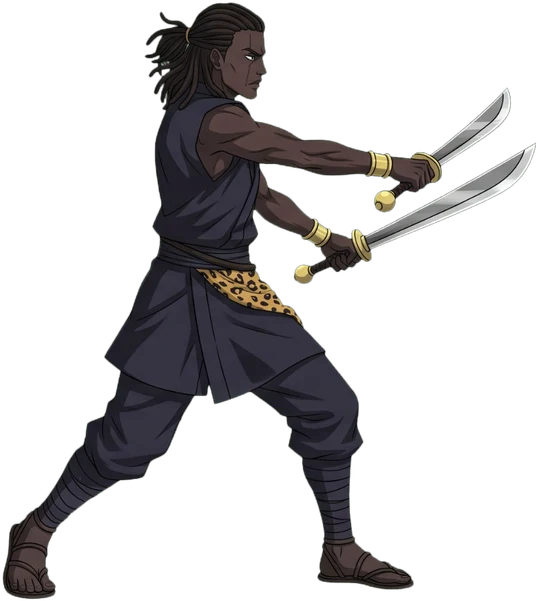
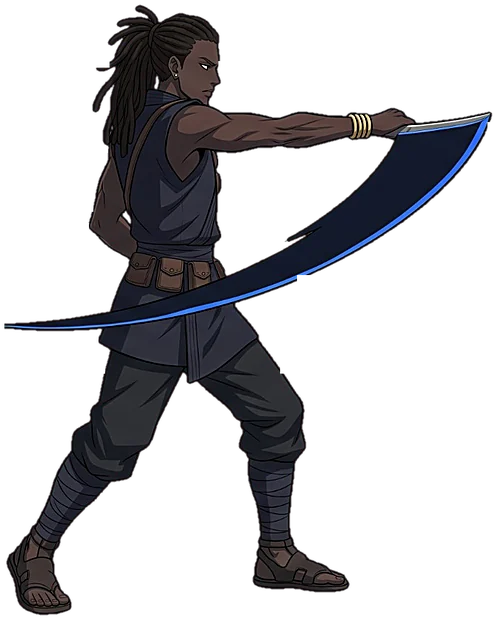
Blay: navy-outfit keyframe art (idle/hurt/defeated/dash, draw cut, twin cut, parry/counter/rally, ultimate), detached blue-black slash projectiles, screen-wide ult wave, zip-sheet portrait
Claude-Session: https://claude.ai/code/session_01KCvu1msLSb5oPSxPwoexAA

Changed region(s): [[0.0, 0.0, 0.996, 1.0]]

diff --git a/squads/game.js b/squads/game.js
@@ -1,9 +1,9 @@
 // Gyeaman Squads: Akan squad battler, chapter 1.
 // Battles are turn based on a speed turn order (Dislyte style): every hero picks Basic, Skill (cooldown) or Ultimate (energy)
 // and a target; enemies show their next move. Big moves get impact frames, small ones stay quiet.
-import { KF } from './kf.js?v=20261021d';
-import { HEROES, MONS, STAGES, REGIONS, DIFF, RARITY, STARTERS, SKILL_MAX, skillCost, xpNeed, STAR_SHARDS, LOCKED_CHAPTERS, PULL_COST, PULL10_COST, PITY, PULL_RATES, CLASSES, GROWTH, SPELLS } from './data.js?v=20261021d';
-import { drawAdinkra, adinkraPath, adinkraSvg, ADINKRA } from './adinkra.js?v=20261021d';
+import { KF } from './kf.js?v=20261021e';
+import { HEROES, MONS, STAGES, REGIONS, DIFF, RARITY, STARTERS, SKILL_MAX, skillCost, xpNeed, STAR_SHARDS, LOCKED_CHAPTERS, PULL_COST, PULL10_COST, PITY, PULL_RATES, CLASSES, GROWTH, SPELLS } from './data.js?v=20261021e';
+import { drawAdinkra, adinkraPath, adinkraSvg, ADINKRA } from './adinkra.js?v=20261021e';
 
 const ROOT = /\/squads\/?$|\/squads\/index\.html$/.test(location.pathname) ? '../assets/' : 'assets/';
 const A = ROOT + 'sq/';
@@ -62,7 +62,7 @@ const SFX = {
 
 // ---------------- images ----------------
 const IM = {};
-const AV = '?v=20261021d'; // bump when art files are replaced under the same name (defeats stale browser/CDN caches)
+const AV = '?v=20261021e'; // bump when art files are replaced under the same name (defeats stale browser/CDN caches)
 function img(src) {
   if (!IM[src]) { const e = { el: new Image(), ok: false, sc: {}, sil: {} }; e.el.decoding = 'async'; e.el.onload = () => { e.ok = true; }; e.el.src = src; IM[src] = e; }
   return IM[src];
@@ -76,6 +76,7 @@ for (const id in ANIM) for (const c of Object.values(ANIM[id])) c.sheets.forEach
 // ---------- keyframe choreography (Firefly pose sheets + code movement, smears, speed lines, afterimages) ----------
 const kfImg = (id, p) => img(A + 'kf/' + KF[id].p[p][0] + AV);
 for (const id in KF) for (const p in KF[id].p) kfImg(id, p);
+for (let i = 0; i < 4; i++) img(A + 'kf/blay_fx_' + i + '.webp' + AV);
 // draw keyframe p for hero id with its floor point at (0,0), body scaled so the idle pose is bodyH tall
 function drawKF(g, id, p, bodyH, alpha = 1) {
   const D = KF[id].p[p]; if (!D) return false; const im = kfImg(id, p); if (!im.ok) return false;
@@ -95,6 +96,15 @@ const SEQ = {
       { p: 'ultF_2', ms: 230, x: 1.04, y: .58, lines: 1, ghost: 1, ev: 'k3' }, { p: 'ultF_3', ms: 420, x: 1.08, y: 0, lines: 1, ev: 's4' },
       { p: 'recover_1', ms: 130, x: .6, y: .36, ghost: 1 }, { p: 'recover_2', ms: 130, x: .25, y: .42, ghost: 1 }, { p: 'recover_3', ms: 180, x: 0, y: 0, ev: 'land' }],
   },
+  blay: {
+    recover: [{ p: 'idle_3', ms: 150, x: .45, y: 0, ghost: 1 }, { p: 'idle_0', ms: 140, x: 0, y: 0 }],
+    basic: [{ p: 'basic_1', ms: 200, x: .15 }, { p: 'basic_2', ms: 260, x: .2, lines: 1, ev: 'cut' }, { p: 'basic_3', ms: 220, x: .2 }],
+    blay1: [{ p: 'idle_3', ms: 150, x: .45, ghost: 1 }, { p: 'twin_1', ms: 240, x: .5, ev: 'cut1' }, { p: 'twin_2', ms: 280, x: .5, lines: 1, ev: 'cut2' }, { p: 'twin_3', ms: 200, x: .45 }],
+    blay2: [{ p: 'parry_1', ms: 520, x: 0, ev: 'guard' }],
+    blayRush: [{ p: 'idle_3', ms: 160, x: .8, lines: 1, ghost: 1 }, { p: 'basic_1', ms: 140, x: .9 }, { p: 'basic_2', ms: 300, x: 1, lines: 1, ev: 'cut' }, { p: 'basic_3', ms: 180, x: 1 }],
+    blayRally: [{ p: 'parry_3', ms: 650, x: 0, ev: 'rally' }],
+    ult: [{ p: 'ult_0', ms: 160, x: 0 }, { p: 'ult_1', ms: 520, x: -.05, ev: 'charge' }, { p: 'ult_2', ms: 700, x: .25, lines: 1, ghost: 1, ev: 'release' }, { p: 'ult_3', ms: 500, x: .25, ev: 'after' }, { p: 'idle_0', ms: 120, x: 0 }],
+  },
 };
 const reachTo = (u, f) => Math.max(0, Math.abs(pos(f)[0] - pos(u)[0]) - f.w * .42 - u.w * .3);
 // play a step list on a battle unit; onEv(name, step) fires at each step start
@@ -112,6 +122,7 @@ async function runKF(u, f, seq, onEv) {
 function kfOff(u) { const a = u.kfA; if (!a) return [0, 0]; const t = Math.min(1, (B.t - a.t0) / (a.d || .001)), e = 1 - (1 - t) ** 3; return [a.x0 + (a.x1 - a.x0) * e, a.y0 + (a.y1 - a.y0) * e]; }
 const kfEnd = (u) => { u.kf = null; u.kfA = null; u.kfAlpha = 1; };
 const VIO = '#c58bff';
+const SPL = { dufie: 'ultE_2', blay: 'ult_2' }; // ultimate splash pose
 async function dufieRecover(u, f) { await runKF(u, f, SEQ.dufie.recover, async (ev) => { if (ev === 'land') { const [x, y] = pos(u); burst(x, y, ['#d8c9b0', '#fff'], 10, 3); } }); kfEnd(u); }
 CHOREO.dufie = {
   basic: async (u, f, m, o) => { let d = 0; await runKF(u, f, SEQ.dufie.basic, async (ev) => { const [x, y] = pos(f);
@@ -146,6 +157,26 @@ CHOREO.dufie = {
       if (ev === 'k3' && f.alive) strike(.3, { yy: .8, dir: -1, tilt: .3, c: '#fff', stop: 90 });
       if (ev === 's4' && f.alive) { strike(.28, { r: .7, c: VIO }); strike(.27, { r: .55, c: '#fff', big: 1, stop: 140 }); fx('star', 600, { x, y: y - f.h * .5, r: f.h, c: VIO }); fx('smoke', 900, { x, y, r: f.h * .5, c: VIO, n: 12 }); B.shake = 14; }
       if (ev === 'land') burst(hx, hy, ['#d8c9b0', '#fff'], 10, 3); });
+    kfEnd(u); },
+};
+// Blay: calm body, the cut is the event: blue-black crescents leave the blade and fly across the screen
+const BLU = '#2f6bff', BLK = '#0b1230';
+const sproj = (u, k, o = {}) => { const [hx, hy] = pos(u); fx('sproj', o.ms || 520, { k, x0: hx + u.w * .3, x1: o.x1 ?? B.w * 1.15, y: hy - u.h * (o.yy ?? .55), s: u.h * (o.s ?? .9), rot: o.rot || 0, flip: o.flip }); };
+async function blayRecover(u, f) { await runKF(u, f, SEQ.blay.recover); kfEnd(u); }
+CHOREO.blay = {
+  basic: async (u, f, m, o) => { let d = 0; await runKF(u, f, SEQ.blay.basic, async (ev) => { if (ev === 'cut') { sproj(u, 0, { s: .55, ms: 420 }); await wait(150); d = hit(u, f, m, { ...o, color: BLU }); hitStop(70); } }); await blayRecover(u, f); return d; },
+  blay1: async (u, f, m) => { await runKF(u, f, SEQ.blay.blay1, async (ev) => {
+      if (ev === 'cut1') { sproj(u, 1, { s: .8, rot: .5, ms: 460, yy: .5 }); await wait(130); hit(u, f, .8 * m, { color: BLU }); hitStop(80); }
+      if (ev === 'cut2' && f.alive) { sproj(u, 1, { s: .8, rot: -.5, flip: 1, ms: 460, yy: .6 }); await wait(130); hit(u, f, .8 * m, { color: BLU }); hitStop(90); addSt(f, 'defDown', 2); float(f, 'DEF▼', '#ff5a4a', .8); } });
+    await blayRecover(u, f); },
+  blay2: async (u, f, m) => { await runKF(u, null, SEQ.blay.blay2, async (ev) => { if (ev === 'guard') { u.st.guard = 1; fx('spr', 600, { k: 'shield', unit: u, hs: .9, a: .45 }); float(u, 'PARRY', '#9fd0ff', .8); } }); kfEnd(u); },
+  blayRush: async (u, f, m) => { await runKF(u, f, SEQ.blay.blayRush, async (ev) => { if (ev === 'cut') { sproj(u, 0, { s: .7, ms: 420 }); await wait(120); hit(u, f, 1.4 * m, { color: BLU }); hitStop(110); B.shake = 6; } });
+    await blayRecover(u, f); pushTM(u, .3); float(u, 'TURN +30%', '#7ee08a', .8); },
+  blayRally: async (u, f, m) => { await runKF(u, null, SEQ.blay.blayRally, async (ev) => { if (ev === 'rally') { const [x, y] = pos(u); fx('star', 600, { x, y: y - u.h * 1.05, r: u.h * .4, c: BLU }); delete u.st.stun; delete u.st.burn; addSt(u, 'atkUp', 3); u.atkUpK = 1.25; float(u, 'ATK▲', '#ffb070', .8); } }); kfEnd(u); },
+  ult: async (u, f, m, T) => { await runKF(u, f, SEQ.blay.ult, async (ev) => { const [hx, hy] = pos(u);
+      if (ev === 'charge') { fx('star', 420, { x: hx, y: hy - u.h * .45, r: u.h * .6, c: BLU }); B.shake = 4; }
+      if (ev === 'release') { await impactFrames(T, u); sproj(u, 3, { s: 2.1, ms: 900, yy: .75, x1: B.w * 1.5 }); await wait(90); sproj(u, 0, { s: 1.2, ms: 700, yy: .45, x1: B.w * 1.4 }); await wait(160); B.shake = 16;
+        if (f.hp / f.max < .3 && !f.boss) { hit(u, f, 99, { big: 1, color: BLU }); float(f, 'EXECUTED', '#ffd23c', 1.3); } else hit(u, f, 3.0 * m, { big: 1, color: BLU }); hitStop(160); } });
     kfEnd(u); },
 };
 // draw one clip frame with feet at (0,0) and body height bodyH
@@ -431,8 +462,8 @@ function heroesScreen(id) {
   const MOVES = [['atk', 1], [null, 's1'], [null, 's2'], [null, 2]];
   let mi = -1;
   let kseq = null, kT = 0;
-  const KMOVES = KF[heroSel] ? ['basic', 'dufie1', 'dufKick', 'dufStars', 'dufie2', 'ult'].filter((k) => SEQ[heroSel][k]) : [];
-  $('.play', s).onclick = () => { if (KMOVES.length) { mi = (mi + 1) % KMOVES.length; const k = KMOVES[mi], S0 = SEQ[heroSel][k]; kseq = ['basic', 'dufie1', 'dufKick', 'ult'].includes(k) ? [...S0, ...SEQ[heroSel].recover] : S0; kT = performance.now(); SFX.hit(); const nm = k === 'basic' ? H.kit[0] : k === 'ult' ? H.kit[3] : SPELLS[k].name; toast(nm); return; }
+  const KMOVES = KF[heroSel] && SEQ[heroSel] ? Object.keys(SEQ[heroSel]).filter((k) => k !== 'recover') : [];
+  $('.play', s).onclick = () => { if (KMOVES.length) { mi = (mi + 1) % KMOVES.length; const k = KMOVES[mi], S0 = SEQ[heroSel][k]; kseq = ['basic', 'dufie1', 'dufKick', 'ult', 'blay1', 'blayRush'].includes(k) && !(heroSel === 'blay' && k === 'ult') ? [...S0, ...SEQ[heroSel].recover] : S0; kT = performance.now(); SFX.hit(); const nm = k === 'basic' ? H.kit[0] : k === 'ult' ? H.kit[3] : SPELLS[k].name; toast(nm); return; }
     mi = (mi + 1) % MOVES.length; const [c, p] = MOVES[mi]; const AN = ANIM[heroSel]; clipName = AN && AN[c] ? c : null; pose = clipName ? 0 : (typeof p === 'string' && !AN ? 1 : p); poseT = performance.now(); if (p === 2) SFX.ult(); else SFX.hit(); };
   let sx = null; cv.onpointerdown = (e) => { sx = e.clientX; }; cv.onpointerup = (e) => { if (sx !== null && Math.abs(e.clientX - sx) > 50) go(e.clientX < sx ? 1 : -1); sx = null; };
   const draw = (now) => {
@@ -630,7 +661,7 @@ function hit(src, dst, mult, o = {}) {
   if (dst.hp <= 0) {
     dst.alive = false; dst.hp = 0; dst.dieT = 1; burst(x, y - dst.h * .4, ['#fff', '#d23b31', '#1a1216'], 16, 5); SFX.die(); B.slowT = .5;
     if (dst.d.gold) { B.bonusGold = (B.bonusGold || 0) + 200; B.floats.push({ x, y: y - dst.h, t: '+200 gold', c: '#e3b448', life: 1.3, size: 1 }); }
-  } else if (dst.st.guard && !o.counter) { delete dst.st.guard; float(dst, 'COUNTER', '#9fd0ff', .9); hit(dst, src, .8, { counter: 1, color: '#9fd0ff' }); }
+  } else if (dst.st.guard && !o.counter) { delete dst.st.guard; float(dst, 'COUNTER', '#9fd0ff', .9); if (dst.id === 'blay' && KF.blay) { dst.kf = 'parry_2'; sproj(dst, 0, { s: .5, ms: 380 }); setTimeout(() => { if (dst.kf === 'parry_2') kfEnd(dst); }, 450); } hit(dst, src, .8, { counter: 1, color: '#9fd0ff' }); }
   return d;
 }
 function heal(u, n, quiet) { if (!u.alive) return; const v = Math.round(n); u.hp = Math.min(u.max, u.hp + v); float(u, '+' + v, '#7ee08a'); if (!quiet) fx('spr', 750, { k: 'heal', unit: u, hs: .95, a: .7 }); }
@@ -755,7 +786,7 @@ async function ultIntro(u, sym, color) {
 // fullscreen ultimate cutscene: dedicated art (or a Veo clip once generated), push-in, speed lines, X-slash, title
 const CUTS = {}; // optional per-hero splash art; keyframe heroes use their signature pose
 function cutscene(u, sym, color) {
-  const C = CUTS[u.id] || (KF[u.id] && KF[u.id].p.ultE_2 ? { img: A + 'kf/' + KF[u.id].p.ultE_2[0] + AV, pose: 1, short: 1 } : { img: poseSrc(u.id, 2), pose: 1 });
+  const C = CUTS[u.id] || (KF[u.id] && KF[u.id].p[SPL[u.id]] ? { img: A + 'kf/' + KF[u.id].p[SPL[u.id]][0] + AV, pose: 1, short: 1 } : { img: poseSrc(u.id, 2), pose: 1 });
   const media = C.video ? `<video poster="${C.img}" muted playsinline autoplay preload="auto"><source src="${C.video.replace('.mp4', '.webm')}" type="video/webm"><source src="${C.video}" type="video/mp4"></video>` : `<img src="${C.img}" alt="" class="${C.pose ? 'pose' : ''} ${C.pose && u.flip[2] ? 'flip' : ''}">`;
   const el = h(`<div class="ultcs" style="--rc:${color}"><div class="cs-bg"></div><div class="cs-art">${media}</div><div class="cs-lines"></div>
     <div class="cs-sym">${adinkraSvg(sym)}</div><i class="cs-x a"></i><i class="cs-x b"></i><div class="cs-flash"></div>
@@ -848,7 +879,7 @@ async function doHero(u, i) {
   await ultIntro(u, u.d.sym, RARITY[u.d.rarity].color === '#6fb6ff' ? '#e3b448' : RARITY[u.d.rarity].color);
   const T = [f];
   switch (u.id) {
-    case 'blay': { await impactFrames(T, u); fx('slash', 420, { x: pos(f)[0], y: pos(f)[1] - f.h * .5, r: f.h * .6, c: '#fff', dir: 1, big: 1 }); if (f.hp / f.max < .3 && !f.boss) { hit(u, f, 99, { big: 1 }); float(f, 'EXECUTED', '#ffd23c', 1.3); } else hit(u, f, 3.0 * m, { big: 1 }); break; }
+    case 'blay': if (CHOREO.blay.ult) { await CHOREO.blay.ult(u, f, m, T); break; } { await impactFrames(T, u); fx('slash', 420, { x: pos(f)[0], y: pos(f)[1] - f.h * .5, r: f.h * .6, c: '#fff', dir: 1, big: 1 }); if (f.hp / f.max < .3 && !f.boss) { hit(u, f, 99, { big: 1 }); float(f, 'EXECUTED', '#ffd23c', 1.3); } else hit(u, f, 3.0 * m, { big: 1 }); break; }
     case 'owureku': { await impactFrames(T, u); for (let k = 0; k < 3 && f.alive; k++) { fx('slash', 300, { x: pos(f)[0], y: pos(f)[1] - f.h * .5, r: f.h * .55, c: '#ffb070', dir: 1, big: 1 }); hit(u, f, 1.15 * m, { color: '#ffb070', big: 1 }); await wait(160); } break; }
     case 'gyakari': { addSt(u, 'shield', 2); u.shieldAmt = Math.round(u.max * .35 * m); await wait(300); await impactFrames(T, u); hit(u, f, 1.2 * m + u.shieldAmt / u.atk * .5, { color: '#6fb6ff', big: 1 }); break; }
     case 'obiri': { await impactFrames(T, u); const [x0, y0] = pos(u), [x, y] = pos(f); fx('beam', 500, { x0, y0: y0 - u.h * .6, x1: x, y1: y - f.h * .5, c: '#ffd23c' }); hit(u, f, 3.2 * m, { color: '#ffd23c', crit: true, big: 1 }); break; }
@@ -1042,6 +1073,8 @@ function drawFx(g, f) {
       g.globalAlpha = fade * .55; g.fillStyle = f.c; crescent(R0 * 1.06, th * 1.5); g.fill();
       g.globalAlpha = fade; g.fillStyle = '#ffffff'; crescent(R0, th * .55); g.fill();
       g.globalCompositeOperation = 'source-over'; break; }
+    case 'sproj': { const im = img(A + 'kf/blay_fx_' + f.k + '.webp' + AV); if (!im.ok) break; const e = 1 - (1 - p) ** 2, x = f.x0 + (f.x1 - f.x0) * e, h = f.s, w = h * im.el.naturalWidth / im.el.naturalHeight;
+      g.translate(x, f.y); g.rotate(f.rot || 0); if (f.flip) g.scale(1, -1); g.globalAlpha = p < .75 ? 1 : 1 - (p - .75) / .25; g.drawImage(im.el, -w * .7, -h / 2, w, h); break; }
     case 'lines': { const fade = 1 - p; g.strokeStyle = '#ffffff'; g.lineCap = 'butt'; const L = f.x1 - f.x0; if (!f.ls) f.ls = Array.from({ length: 9 }, () => [Math.random(), rnd(.3, 1), rnd(1, 3)]);
       for (const [yy, len, w] of f.ls) { g.globalAlpha = fade * .8; g.lineWidth = w; const xe = f.x0 + L * (.2 + .8 * Math.min(1, p * 3)), xs = xe - L * len * (1 - p * .6); g.beginPath(); g.moveTo(xs, f.y - f.h / 2 + yy * f.h); g.lineTo(xe, f.y - f.h / 2 + yy * f.h); g.stroke(); } break; }
     case 'streak': { const e = Math.min(1, p / .4), fade = 1 - p; g.globalCompositeOperation = 'lighter';

diff --git a/squads/kf.js b/squads/kf.js
@@ -1,4 +1,5 @@
 // generated by split4.py: keyframe poses cut from Firefly pose sheets. [file, w, h, anchor x, floor y] in px
 export const KF = {
   dufie: { ref: 625, p: {"basic_0":["dufie_basic_0.webp",544,631,271,625],"basic_1":["dufie_basic_1.webp",594,572,296,553],"basic_2":["dufie_basic_2.webp",423,690,213,653],"basic_3":["dufie_basic_3.webp",490,391,245,363],"idle_0":["dufie_idle_0.webp",556,630,277,625],"idle_1":["dufie_idle_1.webp",461,660,230,649],"idle_2":["dufie_idle_2.webp",355,496,176,481],"idle_3":["dufie_idle_3.webp",447,488,223,467],"step_0":["dufie_step_0.webp",395,710,196,705],"step_1":["dufie_step_1.webp",545,501,272,615],"step_2":["dufie_step_2.webp",630,540,314,540],"step_3":["dufie_step_3.webp",424,693,213,703],"kick_0":["dufie_kick_0.webp",499,632,248,626],"kick_1":["dufie_kick_1.webp",579,426,290,602],"kick_2":["dufie_kick_2.webp",372,740,186,732],"kick_3":["dufie_kick_3.webp",438,413,218,377],"throw_0":["dufie_throw_0.webp",552,630,275,625],"throw_1":["dufie_throw_1.webp",341,648,170,643],"throw_2":["dufie_throw_2.webp",543,642,270,637],"throw_3":["dufie_throw_3.webp",508,584,253,568],"vanish_0":["dufie_vanish_0.webp",529,631,264,625],"vanish_1":["dufie_vanish_1.webp",467,707,233,677],"vanish_2":["dufie_vanish_2.webp",316,551,157,632],"vanish_3":["dufie_vanish_3.webp",503,618,249,610],"recover_0":["dufie_recover_0.webp",395,729,196,716],"recover_1":["dufie_recover_1.webp",463,680,231,716],"recover_2":["dufie_recover_2.webp",399,503,199,684],"recover_3":["dufie_recover_3.webp",552,631,275,625],"ultE_0":["dufie_ultE_0.webp",555,651,277,645],"ultE_1":["dufie_ultE_1.webp",474,765,236,703],"ultE_2":["dufie_ultE_2.webp",470,791,235,726],"ultE_3":["dufie_ultE_3.webp",575,557,287,666],"ultF_0":["dufie_ultF_0.webp",586,652,291,646],"ultF_1":["dufie_ultF_1.webp",570,559,285,691],"ultF_2":["dufie_ultF_2.webp",566,508,284,729],"ultF_3":["dufie_ultF_3.webp",552,736,279,731],"ultC_0":["dufie_ultC_0.webp",554,632,276,626],"ultC_1":["dufie_ultC_1.webp",449,480,225,473],"ultC_2":["dufie_ultC_2.webp",488,725,245,716],"ultC_3":["dufie_ultC_3.webp",590,639,295,633],"ultD_0":["dufie_ultD_0.webp",675,485,337,680],"ultD_1":["dufie_ultD_1.webp",528,663,264,652],"ultD_2":["dufie_ultD_2.webp",577,581,287,571],"ultD_3":["dufie_ultD_3.webp",545,631,271,626]} },
+  blay: { ref: 644, p: {"idle_0":["blay_idle_0.webp",342,649,171,644],"idle_1":["blay_idle_1.webp",438,614,220,617],"idle_2":["blay_idle_2.webp",379,445,189,458],"idle_3":["blay_idle_3.webp",490,552,246,565],"basic_0":["blay_basic_0.webp",333,650,162,645],"basic_1":["blay_basic_1.webp",416,603,208,605],"basic_2":["blay_basic_2.webp",497,620,248,622],"basic_3":["blay_basic_3.webp",339,643,170,636],"twin_0":["blay_twin_0.webp",318,652,157,646],"twin_1":["blay_twin_1.webp",543,591,271,586],"twin_2":["blay_twin_2.webp",385,724,192,719],"twin_3":["blay_twin_3.webp",376,607,187,609],"parry_0":["blay_parry_0.webp",326,649,163,645],"parry_1":["blay_parry_1.webp",312,688,155,684],"parry_2":["blay_parry_2.webp",545,631,271,650],"parry_3":["blay_parry_3.webp",351,704,175,698],"ult_0":["blay_ult_0.webp",323,650,157,645],"ult_1":["blay_ult_1.webp",477,471,240,478],"ult_2":["blay_ult_2.webp",613,644,306,656],"ult_3":["blay_ult_3.webp",269,648,133,646]} },
 };

diff --git a/squads/index.html b/squads/index.html
@@ -14,10 +14,10 @@
 <link rel="preconnect" href="https://fonts.googleapis.com">
 <link rel="preconnect" href="https://fonts.gstatic.com" crossorigin>
 <link href="https://fonts.googleapis.com/css2?family=Anton&family=Bangers&family=Karla:wght@400;700;800&display=swap" rel="stylesheet">
-<link rel="stylesheet" href="style.css?v=20261021d">
+<link rel="stylesheet" href="style.css?v=20261021e">
 </head>
 <body>
 <div id="app"></div>
-<script type="module" src="game.js?v=20261021d"></script>
+<script type="module" src="game.js?v=20261021e"></script>
 </body>
 </html>
